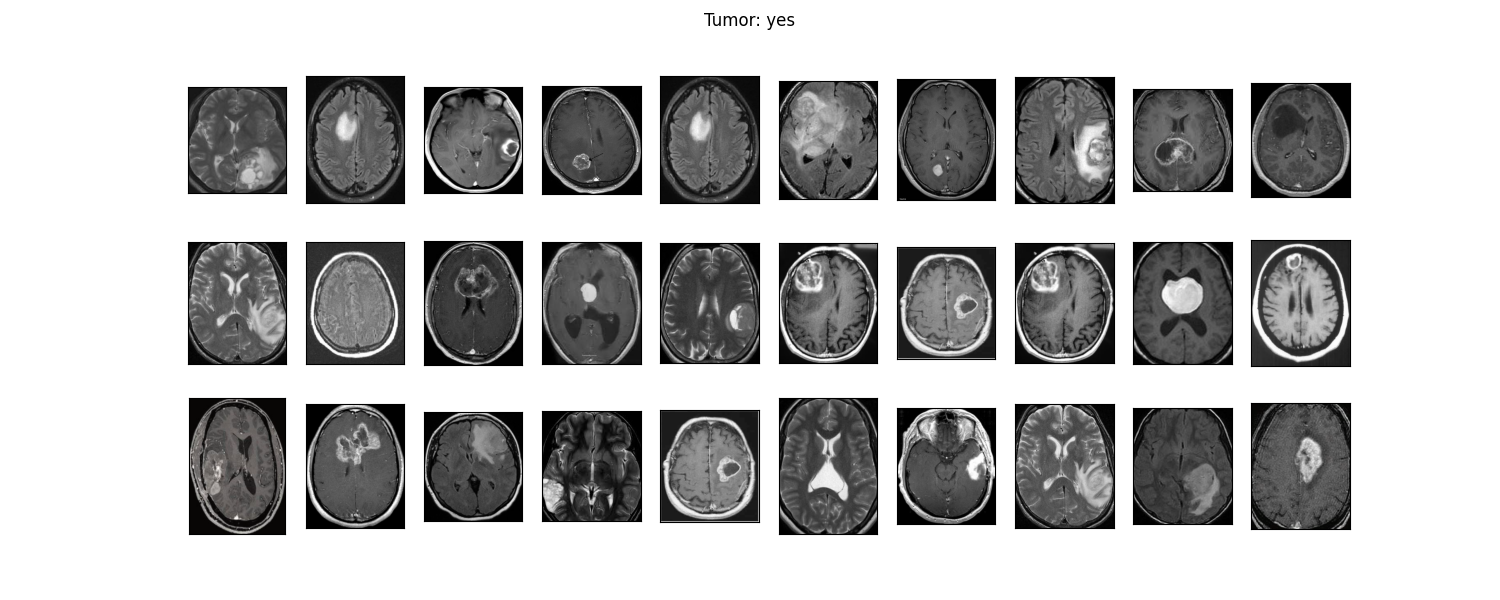
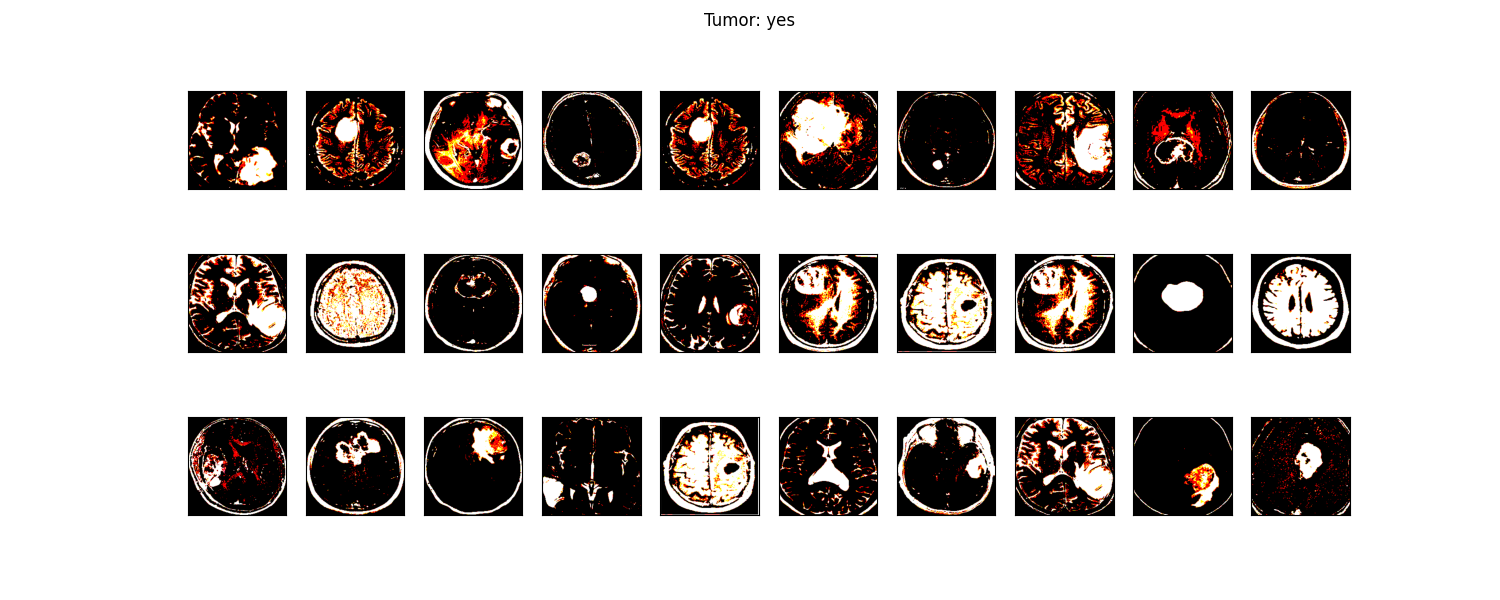
update: training model

diff --git a/src/classification/vgg16_model/classification.py b/src/classification/vgg16_model/classification.py
@@ -128,18 +128,18 @@ def crop_imgs(set_name, add_pixels_value=0):
         gray = cv2.cvtColor(img, cv2.COLOR_RGB2GRAY)
         gray = cv2.GaussianBlur(gray, (5, 5), 0)
 
-        #Remove any small region of noise
+        # Remove any small region of noise
         thresh = cv2.threshold(gray, 45, 255,cv2.THRESH_BINARY)[1]
         thresh = cv2.erode(thresh, None, iterations=2)
         thresh = cv2.dilate(thresh, None, iterations=2)
 
-        #Find contours
+        # Find contours
         cnts = cv2.findContours(
             thresh.copy(), cv2.RETR_EXTERNAL, cv2.CHAIN_APPROX_SIMPLE)
         cnts = imutils.grab_contours(cnts)
         c = max(cnts, key=cv2.contourArea)
 
-        #Find the extreme points
+        # Find the extreme points
         ext_left = tuple(c[c[:, :, 0].argmin()][0])
         ext_right = tuple(c[c[:, :, 0].argmax()][0])
         ext_top = tuple(c[c[:, :, 1].argmin()][0])
@@ -167,6 +167,79 @@ def save_crop_images(x_set, y_set, file_dir):
             cv2.imwrite(file_dir + 'yes/' + str(i) + '.jpg', img)
         i += 1
 
+def preprocess_imgs(set_name, img_size):
+    """Resize and apply VGG-16 preprocessing.
+    """
+    set_new = list()
+    for img in set_name:
+        img = cv2.resize(
+            img,
+            dsize=img_size,
+            interpolation=cv2.INTER_CUBIC
+        )
+        set_new.append(preprocess_input(img))
+
+    return np.array(set_new)
+
+def augment_data(config, img_size):
+    """Augment data based on preprocessed images.
+    """
+    train_datagen = ImageDataGenerator(
+        rotation_range=15,
+        width_shift_range=0.1,
+        height_shift_range=0.1,
+        shear_range=0.1,
+        brightness_range=[0.5, 1.5],
+        horizontal_flip=True,
+        vertical_flip=True,
+        preprocessing_function=preprocess_input)
+
+    test_datagen = ImageDataGenerator(
+        preprocessing_function=preprocess_input)
+
+    train_generator = train_datagen.flow_from_directory(
+        config['classification']['vgg16']['train_dir_crop'],
+        color_mode='rgb',
+        target_size=img_size,
+        batch_size=32,
+        class_mode='binary',
+        seed=RANDOM_SEED)
+
+    val_generator = test_datagen.flow_from_directory(
+        config['classification']['vgg16']['val_dir_crop'],
+        color_mode='rgb',
+        target_size=img_size,
+        batch_size=16,
+        class_mode='binary',
+        seed=RANDOM_SEED)
+
+    return train_generator, val_generator
+
+def train_vgg16_model(config, train_generator, val_generator, img_size):
+    """Training preweight vgg16 model.
+    """
+    vgg16_weight_path = config['classification']['vgg16']['vgg16_weights']
+    base_model = VGG16(
+        weights=vgg16_weight_path,
+        include_top=False,
+        input_shape=img_size + (3,))
+
+    num_classes = 1
+
+    model = Sequential()
+    model.add(base_model)
+    model.add(layers.Flatten())
+    model.add(layers.Dropout(0.5))
+    model.add(layers.Dense(num_classes, activation='sigmoid'))
+
+    model.layers[0].trainable = False
+
+    model.compile(
+        loss = 'binary_crossentropy',
+        optimizer=RMSprop(lr=1e-4)
+        metrics=['accuracy'])
+    
+    model.summary()
 def main():
     """Main program
     """
@@ -216,7 +289,18 @@ def main():
         y_val,
         config['classification']['vgg16']['val_dir_crop'])
 
+    # Preprocess images, resize to apply vgg16
+    X_train_prep = preprocess_imgs(X_train_crop, img_size)
+    X_test_prep = preprocess_imgs(X_test_crop, img_size)
+    X_val_prep = preprocess_imgs(X_val_crop, img_size)
+    plot_samples(X_train_prep, y_train, labels, 30)
+
+    # Augment data for training
+    train_generator, val_generator =  augment_data(config, img_size)
     logging.info("Program was terminated!")
+
+    # Train model
+    train_vgg16_model(config, train_generator, val_generator, img_size)
 
 if __name__ == "__main__":
     main()
